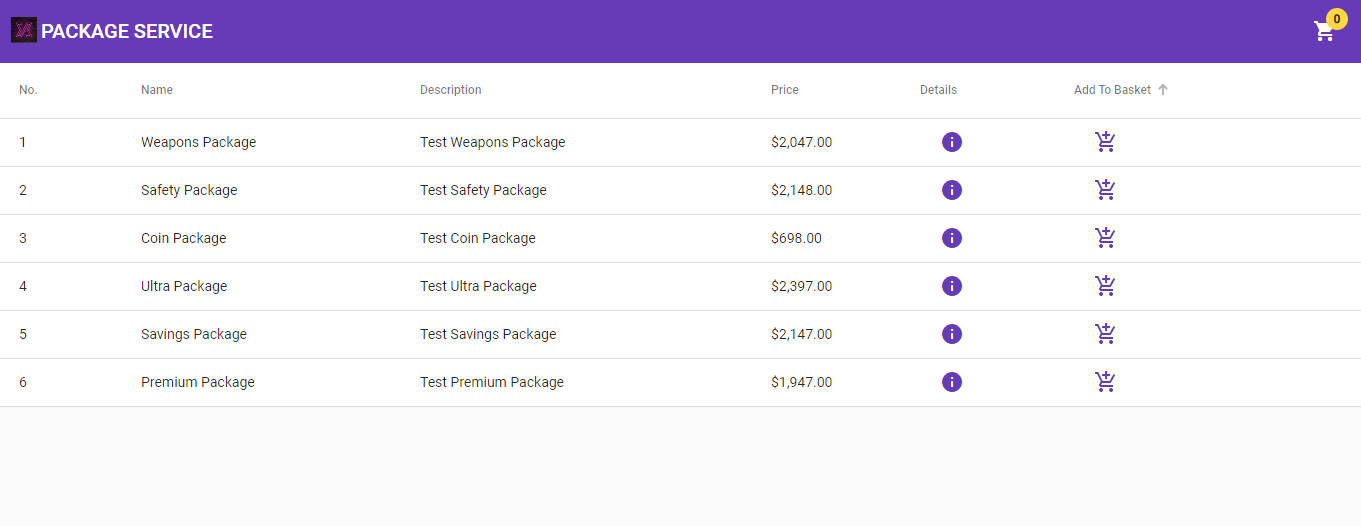
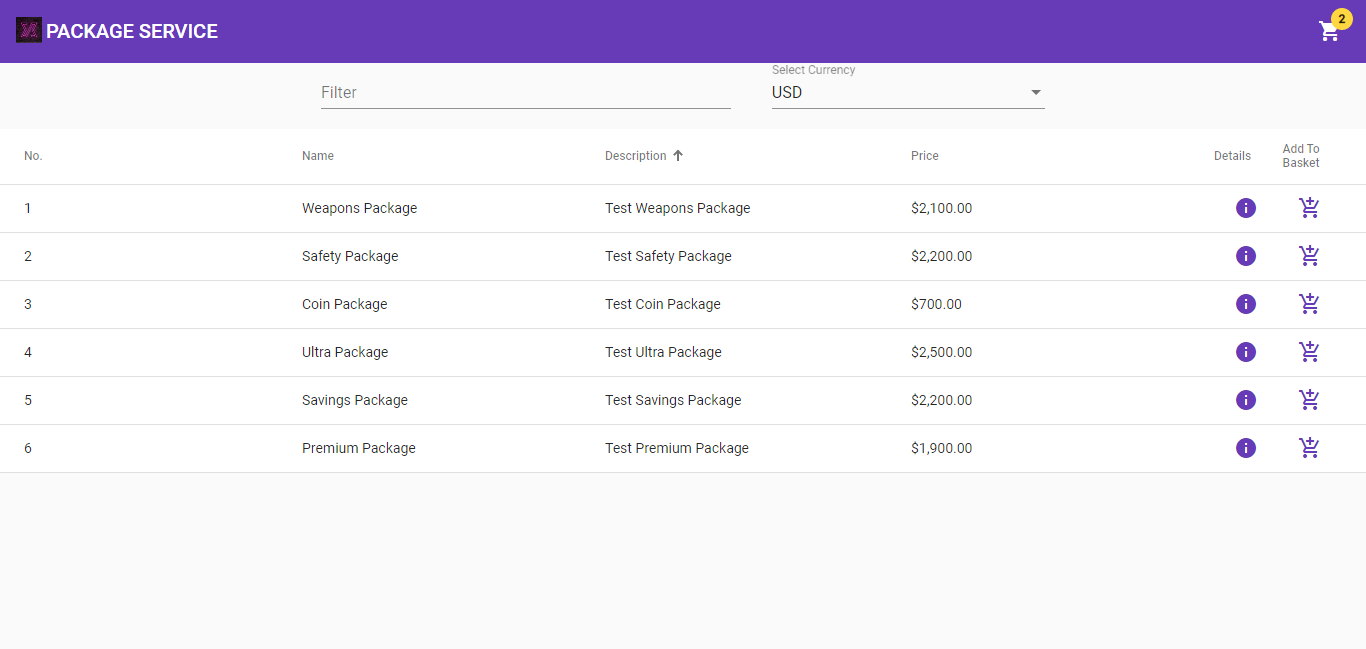
updating screenshot

diff --git a/package-frontend/src/app/components/package-list/package-list.component.ts b/package-frontend/src/app/components/package-list/package-list.component.ts
@@ -1,3 +1,4 @@
+import { PriceType } from './../../enum/pricetype.enum';
 import { ShoppingBasketService } from './../../services/shopping-basket.service';
 import { ActionListener } from './../../models/action.listener';
 import { DialogService } from './../../services/dialog.service';
@@ -6,6 +7,8 @@ import { MatSort } from "@angular/material/sort";
 import { MatTableDataSource } from "@angular/material/table";
 import { Package } from "src/app/models/package.model";
 import { PackageService } from "src/app/services/package.service";
+import { CurrencyExchangeService } from 'src/app/services/currency-exchange.service';
+import { getCurrencySymbol } from '@angular/common';
 
 @Component({
   selector: 'app-package-list',
@@ -17,10 +20,12 @@ export class PackageListComponent implements OnInit, AfterViewInit {
   packages: Package[] = [];
   displayedColumns: string[] = ['id', 'name', 'description', 'price', 'details', 'add'];
   dataSource = new MatTableDataSource(this.packages);
+  currencyList: PriceType[] = [PriceType.USD, PriceType.EUR, PriceType.GBP];
+  selectedCurrencyType = PriceType.USD;
 
   @ViewChild(MatSort) sort: MatSort;
 
-  constructor(public shoppingBasketService: ShoppingBasketService, public packageService: PackageService, public dialogService: DialogService) {
+  constructor(public shoppingBasketService: ShoppingBasketService, public packageService: PackageService, public dialogService: DialogService, public currencyExhangeService: CurrencyExchangeService) {
 
   }
 
@@ -30,6 +35,16 @@ export class PackageListComponent implements OnInit, AfterViewInit {
 
   ngAfterViewInit() {
     this.dataSource.sort = this.sort;
+  }
+
+  applyFilter(event: Event) {
+    const filterValue = (event.target as HTMLInputElement).value;
+    let filtered = this.packages;
+    if (filterValue.trim() !== '') {
+      filtered = this.packages.filter(p => p.name === filterValue || p.description === filterValue || p.price + '' === filterValue);
+    }
+    if (filtered.length > 0)
+      this.dataSource.filteredData = filtered;
   }
 
   fetchList() {
@@ -68,6 +83,24 @@ export class PackageListComponent implements OnInit, AfterViewInit {
     this.dialogService.packageDialog('Package Info', pkg, packageEmitter);
     packageEmitter.subscribe((pg: Package) => {
       this.addToBasket(pkg);
+    });
+  }
+
+  onCurrencyChange = (): void => {
+    this.currencyExhangeService.getExchangeRatesFor(this.selectedCurrencyType).subscribe((obj: any) => {
+      for (let pkg of this.packages) {
+        if (!pkg.priceType)
+          pkg.priceType = PriceType.USD;
+        const rate: number = obj.rates[pkg.priceType];
+        let total: number = 0;
+        for (let prod of pkg.products) {
+          prod.price = parseFloat((prod.price / rate).toPrecision(2));
+          prod.priceType = this.selectedCurrencyType;
+          total += prod.price;
+        }
+        pkg.price = parseFloat(total.toPrecision(2));
+        pkg.priceType = this.selectedCurrencyType;
+      }
     });
   }
 

diff --git a/package-frontend/src/app/components/dialog/info/package-dialog.component.html b/package-frontend/src/app/components/dialog/info/package-dialog.component.html
@@ -1,0 +1,40 @@
+<h1 mat-dialog-title>{{data.title}}</h1>
+<mat-dialog-content class="mat-typography">
+
+    <h3>{{data.package.name}}</h3>
+
+    <p>{{data.package.description}}</p>
+
+    <table mat-table [dataSource]="products">
+
+        <!-- No Column -->
+        <ng-container matColumnDef="no">
+            <th mat-header-cell *matHeaderCellDef> No. </th>
+            <td mat-cell *matCellDef="let prod; let i=index"> {{i+1}} </td>
+            <td mat-footer-cell *matFooterCellDef> </td>
+        </ng-container>
+
+        <!-- Name Column -->
+        <ng-container matColumnDef="name">
+            <th mat-header-cell *matHeaderCellDef> Product Name </th>
+            <td mat-cell *matCellDef="let prod"> {{prod.name}} </td>
+            <td mat-footer-cell *matFooterCellDef> Total </td>
+        </ng-container>
+
+        <!-- Price Column -->
+        <ng-container matColumnDef="price">
+            <th mat-header-cell *matHeaderCellDef> Price </th>
+            <td mat-cell *matCellDef="let prod"> {{prod.price | currency :data.package.priceType}} </td>
+            <td mat-footer-cell *matFooterCellDef> {{data.package.price | currency :data.package.priceType}} </td>
+        </ng-container>
+
+        <tr mat-header-row *matHeaderRowDef="columns"></tr>
+        <tr mat-row *matRowDef="let row; columns: columns;"></tr>
+        <tr mat-footer-row *matFooterRowDef="columns"></tr>
+    </table>
+
+</mat-dialog-content>
+<div mat-dialog-actions align="end">
+    <button mat-button mat-dialog-close>OK</button>
+    <button mat-button [mat-dialog-close]="true" cdkFocusInitial>Add to basket</button>
+</div>

diff --git a/package-frontend/src/app/components/dialog/shopping-basket/shopping-basket.component.ts b/package-frontend/src/app/components/dialog/shopping-basket/shopping-basket.component.ts
@@ -1,6 +1,8 @@
+import { getCurrencySymbol } from "@angular/common";
 import { Component, Inject, OnInit } from "@angular/core";
 import { MAT_DIALOG_DATA } from "@angular/material/dialog";
 import { MatTableDataSource } from "@angular/material/table";
+import { PriceType } from "src/app/enum/pricetype.enum";
 import { Package } from "src/app/models/package.model";
 import { ShoppingBasketService } from "src/app/services/shopping-basket.service";
 
@@ -54,7 +56,8 @@ export class ShoppingBasketComponent implements OnInit {
         pos: index,
         name: pkg.name,
         count: count,
-        price: pkg.price
+        price: pkg.price,
+        type: pkg.priceType
       }
       this.displayList.push(basketObj);
       index++;
@@ -74,13 +77,21 @@ export class ShoppingBasketComponent implements OnInit {
       total += obj.price;
     }
     let discount = 0;
+    const curr = this.getCurrencySymbol(this.packages.length > 1 ? this.packages[0].priceType : PriceType.USD);
     if (this.packages.length > 1) {//apply 10% discount
       discount = this.getDiscount(total);
-      return "$" + total + " - $" + discount + " = " + "$" + (total - discount);
+      return curr + total + " - " + curr + discount + " = " + curr + (total - discount);
     } else {
-      return "$" + total;
+      return curr + total;
     }
   }
+
+  getCurrencySymbol(priceType: PriceType): string {
+    if (!priceType)
+      priceType = PriceType.USD;
+    return getCurrencySymbol(priceType.toString(), "wide");
+  }
+
 
   getTotalLabel(): string {
     if (this.packages.length > 1) {

diff --git a/package-frontend/src/app/components/package-list/package-list.component.html b/package-frontend/src/app/components/package-list/package-list.component.html
@@ -1,3 +1,19 @@
+<div fxLayout="row" style="width:100%;" fxLayoutAlign="center center">
+    <mat-form-field fxFlex="30">
+        <mat-label>Filter</mat-label>
+        <input matInput (keyup)="applyFilter($event)" placeholder="Search Package" #input>
+    </mat-form-field>
+    <div fxFlex="3"></div>
+    <mat-form-field fxFlex="20">
+        <mat-label>Select Currency</mat-label>
+        <mat-select [(value)]="selectedCurrencyType" (selectionChange)="onCurrencyChange();">
+            <mat-option *ngFor="let currency of currencyList" [value]="currency">
+                {{currency}}
+            </mat-option>
+        </mat-select>
+    </mat-form-field>
+
+</div>
 <table mat-table [dataSource]="packages" matSort>
 
     <!-- Position Column -->
@@ -21,7 +37,7 @@
     <!-- Price Column -->
     <ng-container matColumnDef="price">
         <th mat-header-cell *matHeaderCellDef mat-sort-header> Price </th>
-        <td mat-cell *matCellDef="let pkg"> {{pkg.price | currency}} </td>
+        <td mat-cell *matCellDef="let pkg"> {{(pkg.price | currency:pkg.priceType)}} </td>
     </ng-container>
 
     <!-- Details Column -->
@@ -39,5 +55,9 @@
     <tr mat-header-row *matHeaderRowDef="displayedColumns"></tr>
     <tr mat-row *matRowDef="let row; columns: displayedColumns;"></tr>
 
+    <!-- Row shown when there is no matching data. -->
+    <tr class="mat-row" *matNoDataRow>
+        <td class="mat-cell" colspan="4">No data matching the filter "{{input.value}}"</td>
+    </tr>
 
 </table>

diff --git a/package-frontend/src/app/app.module.ts b/package-frontend/src/app/app.module.ts
@@ -15,7 +15,10 @@ import { CUSTOM_ELEMENTS_SCHEMA, NgModule } from '@angular/core';
 import { AppComponent } from './app.component';
 import { HttpClientModule } from '@angular/common/http';
 import { PackageService } from './services/package.service';
-import { PackageDialogComponent } from './components/dialog/edit/package-dialog.component';
+import { PackageDialogComponent } from './components/dialog/info/package-dialog.component';
+import { FormsModule, ReactiveFormsModule } from '@angular/forms';
+import { FlexLayoutModule } from '@angular/flex-layout';
+import { CurrencyExchangeService } from './services/currency-exchange.service';
 
 @NgModule({
   declarations: [
@@ -32,10 +35,13 @@ import { PackageDialogComponent } from './components/dialog/edit/package-dialog.
     BrowserModule,
     AngularMaterialModule,
     BrowserAnimationsModule,
-    HttpClientModule
+    HttpClientModule,
+    FormsModule,
+    ReactiveFormsModule,
+    FlexLayoutModule
   ],
   schemas: [CUSTOM_ELEMENTS_SCHEMA],
-  providers: [ShoppingBasketService, PackageService, ProductService, DialogService],
+  providers: [ShoppingBasketService, PackageService, ProductService, DialogService, CurrencyExchangeService],
   bootstrap: [AppComponent]
 })
 export class AppModule { }

diff --git a/package-frontend/src/app/components/dialog/info/package-dialog.component.ts b/package-frontend/src/app/components/dialog/info/package-dialog.component.ts
@@ -1,0 +1,27 @@
+import { Component, Inject, OnInit } from "@angular/core";
+import { MatDialog, MAT_DIALOG_DATA } from '@angular/material/dialog';
+import { MatTableDataSource } from '@angular/material/table';
+import { Product } from "src/app/models/product.model";
+
+@Component({
+  selector: "app-package-dialog",
+  templateUrl: "package-dialog.component.html",
+  styleUrls: ['package-dialog.component.scss']
+
+})
+export class PackageDialogComponent implements OnInit {
+
+
+  columns: string[] = ['no', 'name', 'price'];
+  products: Product[] = [];
+  dataSource = new MatTableDataSource(this.products);;
+
+  constructor(@Inject(MAT_DIALOG_DATA) public data: any) {
+    this.products = data.package.products;
+  }
+
+  ngOnInit(): void {
+
+  }
+
+}

diff --git a/package-frontend/src/app/services/currency-exchange.service.ts b/package-frontend/src/app/services/currency-exchange.service.ts
@@ -1,0 +1,27 @@
+import { Observable } from 'rxjs';
+import { PriceType } from './../enum/pricetype.enum';
+import { HttpClient } from '@angular/common/http';
+import { Injectable } from "@angular/core";
+import { tap } from 'rxjs/operators';
+
+@Injectable({
+  providedIn: 'root'
+})
+export class CurrencyExchangeService {
+
+
+  constructor(public http: HttpClient) {
+
+  }
+
+  getExchangeRatesFor(priceType: PriceType): Observable<any> {
+    const url = "https://api.exchangeratesapi.io/latest?base=" + priceType;
+    return this.http.get<any>(url).pipe(
+      tap( // Log the result or error
+        data => console.log(data),
+        error => console.error(error)
+      )
+    );
+  }
+
+}

diff --git a/package-frontend/src/app/services/dialog.service.ts b/package-frontend/src/app/services/dialog.service.ts
@@ -4,7 +4,7 @@ import { EventEmitter, Injectable } from '@angular/core';
 import { MatDialog } from '@angular/material/dialog';
 import { AlertDialogComponent } from '../components/dialog/alert/alert-dialog.component';
 import { Package } from '../models/package.model';
-import { PackageDialogComponent } from '../components/dialog/edit/package-dialog.component';
+import { PackageDialogComponent } from '../components/dialog/info/package-dialog.component';
 import { ShoppingBasketComponent } from '../components/dialog/shopping-basket/shopping-basket.component';
 
 @Injectable({

diff --git a/package-frontend/src/app/components/dialog/shopping-basket/shopping-basket.component.html b/package-frontend/src/app/components/dialog/shopping-basket/shopping-basket.component.html
@@ -13,7 +13,7 @@
         </ng-container>
         <ng-container matColumnDef="price">
             <th mat-header-cell *matHeaderCellDef> Price </th>
-            <td mat-cell *matCellDef="let basketObj;"> {{basketObj.price | currency}} </td>
+            <td mat-cell *matCellDef="let basketObj;"> {{basketObj.price | currency : basketObj.type}} </td>
             <td mat-footer-cell *matFooterCellDef><b>{{getTotalCost()}}</b> </td>
         </ng-container>
         <ng-container matColumnDef="quantity">

diff --git a/package-frontend/src/app/models/package.model.ts b/package-frontend/src/app/models/package.model.ts
@@ -1,3 +1,4 @@
+import { PriceType } from './../enum/pricetype.enum';
 import { Product } from './product.model';
 export class Package {
 
@@ -6,5 +7,5 @@ export class Package {
   description: string = '';
   price: number = 0;
   products: Product[] = [];
-
+  priceType: PriceType = PriceType.USD;
 }

diff --git a/package-frontend/src/app/enum/pricetype.enum.ts b/package-frontend/src/app/enum/pricetype.enum.ts
@@ -1,5 +1,5 @@
 export enum PriceType {
 
-  USD = 'usd', EURO = 'euro', POUND = 'pound'
+  USD = 'USD', EUR = 'EUR', GBP = 'GBP'
 
 }

diff --git a/package-frontend/src/app/components/package-list/package-list.component.scss b/package-frontend/src/app/components/package-list/package-list.component.scss
@@ -2,6 +2,11 @@ table {
     width: 100%;
 }
 
+td,
+th {
+    width: 25%;
+}
+
 th.mat-sort-header-sorted {
     color: black;
 }
